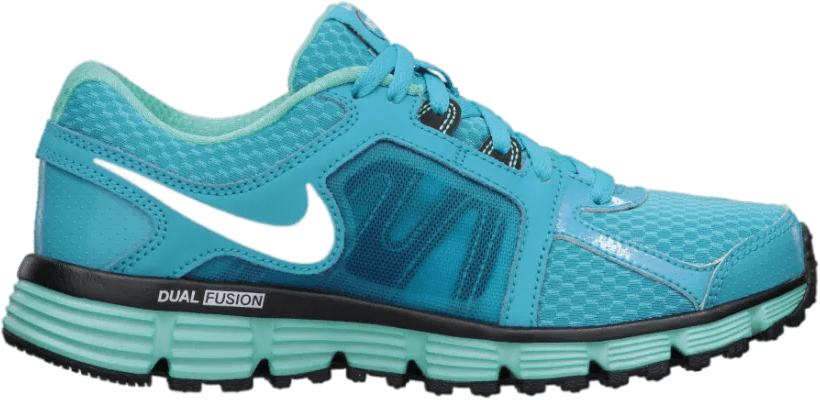
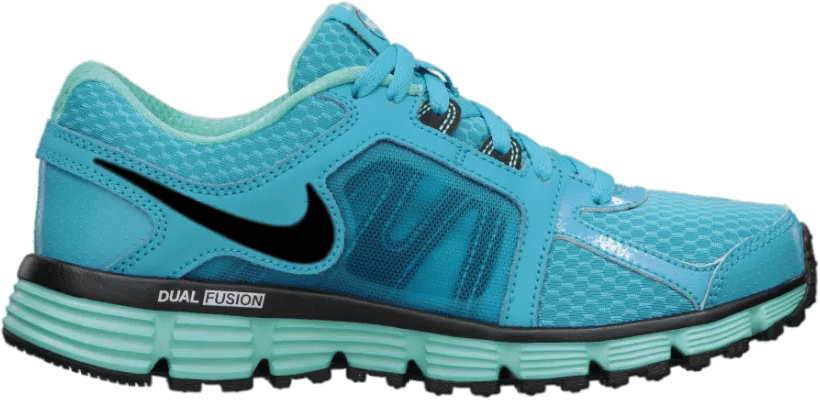
release

Changed region(s): [[0.0915, 0.39, 0.4268, 0.66]]

diff --git a/css/style.css b/css/style.css
@@ -1,0 +1,286 @@
+* {
+    margin: 0px;
+    padding: 0px;
+    box-sizing: border-box;
+}
+
+body {
+    margin: 0px auto;
+    padding: 0px;
+    background-color: #353535;
+    font-family: "Helvetica", sans-serif;
+}
+
+.container {
+    display: flex;
+    flex-direction: row;
+    justify-content: center;
+    align-items: center;
+    flex-wrap: wrap;
+    margin: 64px;
+}
+
+.card-shoes {
+    box-shadow: -20px 20px 0px rgba(0, 0, 0, 0.35);
+    border-radius: 32px;
+    width: 333px;
+    margin-right: 90px;
+}
+
+.card-shoes-header {
+    position: relative;
+    background-color: #F9772C;
+    border-radius: 32px 32px 0px 0px;
+    padding: 32px;
+}
+
+.shoes-logo {
+    filter: invert(0%) sepia(96%) saturate(15%) hue-rotate(145deg) brightness(97%) contrast(102%);
+    transition: filter 0.5s linear;
+}
+
+.shoes-logo:hover {
+    filter: invert(100%) sepia(0%) saturate(0%) hue-rotate(88deg) brightness(101%) contrast(104%);
+}
+
+.shoes-img {
+    position: absolute;
+    top: 75px;
+    left: 165px;
+    transform: rotate(45deg);
+    transition: opacity 0.5s linear;
+    z-index: 1;
+}
+
+.shoes-img:hover {
+    opacity: 0.2;
+}
+
+.card-shoes-header>h1 {
+    text-transform: uppercase;
+    font-size: 23px;
+    font-weight: bold;
+    letter-spacing: 3px;
+    color: #FFFFFF;
+    margin-top: 16px;
+}
+
+.card-shoes-header>p {
+    font-size: 14px;
+    font-weight: lighter;
+    color: #FFFFFF;
+    margin: 16px 0px;
+}
+
+.card-shoes-header>h2 {
+    text-transform: uppercase;
+    font-size: 32px;
+    font-weight: bold;
+    color: rgba(0, 0, 0, 0.18);
+    transition: color 0.5s linear;
+}
+
+.card-shoes-header>h2:hover {
+    color: rgba(0, 0, 0, 0.7);
+}
+
+.card-shoes-body {
+    background-color: #FFFFFF;
+    border-radius: 0px 0px 32px 32px;
+    padding: 32px;
+}
+
+
+.card-shoes-body>p {
+    text-transform: uppercase;
+    font-size: 12px;
+    margin-bottom: 48px;
+}
+
+.shoes-release {
+    display: flex;
+    flex-direction: row;
+    justify-content: flex-start;
+    align-items: center;
+    margin-bottom: 8px;
+}
+
+.shoes-release h1 {
+    text-transform: uppercase;
+    font-size: 20px;
+    font-weight: lighter;
+    color: #000000;
+}
+
+.shoes-size>h1 {
+    text-transform: uppercase;
+    font-size: 15px;
+    font-weight: bold;
+    letter-spacing: 2px;
+}
+
+.new {
+    display: flex;
+    flex-direction: row;
+    justify-content: center;
+    align-items: center;
+    background-color: #04E461;
+    width: 50px;
+    height: 25px;
+    border-radius: 5px;
+    text-transform: uppercase;
+    font-weight: bold;
+    color: #FFFFFF;
+    margin-left: 15px;
+    box-shadow: 0px 0px 10px #0FE859;
+}
+
+.size-block {
+    display: flex;
+    flex-direction: row;
+    justify-content: flex-start;
+    align-items: center;
+    margin-bottom: 32px;
+}
+
+.size {
+    display: flex;
+    justify-content: center;
+    align-items: center;
+    width: 25px;
+    height: 25px;
+    border-radius: 50%;
+    font-size: 16px;
+    font-weight: bold;
+    margin-top: 16px;
+    margin-right: 25px;
+}
+
+.size-selected,
+.size:hover {
+    background-color: #ED5C3A;
+    color: #FFFFFF;
+    cursor: pointer;
+}
+
+.size:last-of-type {
+    margin-right: 0px;
+}
+
+.shoes-color>h1 {
+    text-transform: uppercase;
+    font-size: 15px;
+    font-weight: bold;
+    margin-bottom: 16px;
+    letter-spacing: 2px;
+}
+
+.color-block {
+    position: relative;
+    display: flex;
+    flex-direction: row;
+    justify-content: flex-start;
+    align-items: center;
+}
+
+.color-selector {
+    display: flex;
+}
+
+.price {
+    position: absolute;
+    top: -10px;
+    right: -50px;
+    display: flex;
+    flex-direction: row;
+    justify-content: center;
+    align-items: center;
+    background-color: #0FE859;
+    min-width: 150px;
+    height: 40px;
+    border-radius: 8px;
+    font-weight: lighter;
+    font-size: 22px;
+    color: #FFFFFF;
+    padding: 0px 20px;
+    box-shadow: 0px 0px 10px #0FE859;
+}
+
+.price>strong {
+    font-weight: bold;
+    margin-left: 12px;
+}
+
+.color-r,
+.color-g,
+.color-y {
+    width: 20px;
+    height: 20px;
+    border-radius: 50%;
+}
+
+.color-r {
+    position: relative;
+    background-color: transparent;
+    width: 20px;
+    height: 20px;
+    border: 2px solid #FF0000;
+    margin-right: 20px;
+    cursor: pointer;
+}
+
+.color-r::before {
+    content: "";
+    position: absolute;
+    top: 50%;
+    left: 50%;
+    transform: translate(-50%, -50%);
+    background-color: #FF0000;
+    width: 12px;
+    height: 12px;
+    border-radius: 50%;
+}
+
+.color-g {
+    position: relative;
+    background-color: transparent;
+    width: 20px;
+    height: 20px;
+    border: 2px solid #00FF00;
+    margin-right: 20px;
+    cursor: pointer;
+}
+
+.color-g:hover::before {
+    content: "";
+    position: absolute;
+    top: 50%;
+    left: 50%;
+    transform: translate(-50%, -50%);
+    background-color: #00FF00;
+    width: 12px;
+    height: 12px;
+    border-radius: 50%;
+}
+
+.color-y {
+    position: relative;
+    background-color: transparent;
+    width: 20px;
+    height: 20px;
+    border: 2px solid #F9772C;
+    margin-right: 20px;
+    cursor: pointer;
+}
+
+.color-y:hover::before {
+    content: "";
+    position: absolute;
+    top: 50%;
+    left: 50%;
+    transform: translate(-50%, -50%);
+    background-color: #F9772C;
+    width: 12px;
+    height: 12px;
+    border-radius: 50%;
+}

diff --git a/index.html b/index.html
@@ -10,49 +10,43 @@
 </head>
 <body>
     <div class="container">
-
-
-
         <div class="card-shoes">
             <div class="card-shoes-header">
-                <img src="img/content/nike_logo.png" alt="Nike Logo">
-                <img src="img/content/nike_shoes.png" alt="Nike Shoes">
+                <img class="shoes-logo" src="img/content/nike_logo.png" alt="Nike Logo" width="65" height="26">
+                <img class="shoes-img" src="img/content/nike_shoes.png" alt="Nike Shoes" width="300" height="146">
                 <h1>Hartbeespoort</h1>
                 <p>Dynamic Support and Nike Zoom Air come together for a more supportive feel with high-speed responsiveness.</p>
-                <h2>Fas</h2>
+                <h2>GMURAD97</h2>
             </div>
-
-
             <div class="card-shoes-body">
                 <div class="shoes-release">
-                    <h1>Hartbeespoort</h1>
+                    <h1>Hartbee<strong>spoort</strong></h1>
                     <div class="new">New</div>
                 </div>
                 <p>Basketball collection</p>
                 <div class="shoes-size">
                     <h1>Size</h1>
-                    <div class="size">7</div>
-                    <div class="size">8</div>
-                    <div class="size">9</div>
-                    <div class="size size-selected">10</div>
-                    <div class="size">11</div>
+                    <div class="size-block">
+                        <div class="size">7</div>
+                        <div class="size">8</div>
+                        <div class="size">9</div>
+                        <div class="size size-selected">10</div>
+                        <div class="size">11</div>
+                    </div>
                 </div>
                 <div class="shoes-color">
                     <h1>Color</h1>
-                    <div class="color-r color-r-selected"></div>
-                    <div class="color-g"></div>
-                    <div class="color-y"></div>
+                    <div class="color-block">
+                        <div class="color-selector">
+                            <div class="color-r"></div>
+                            <div class="color-g"></div>
+                            <div class="color-y"></div>
+                        </div>
+                        <div class="price">USD<strong>23,453</strong></div>
+                    </div>
                 </div>
             </div>
-
-
-
-
         </div>
-
-
-
-
     </div>
 </body>
 </html>
